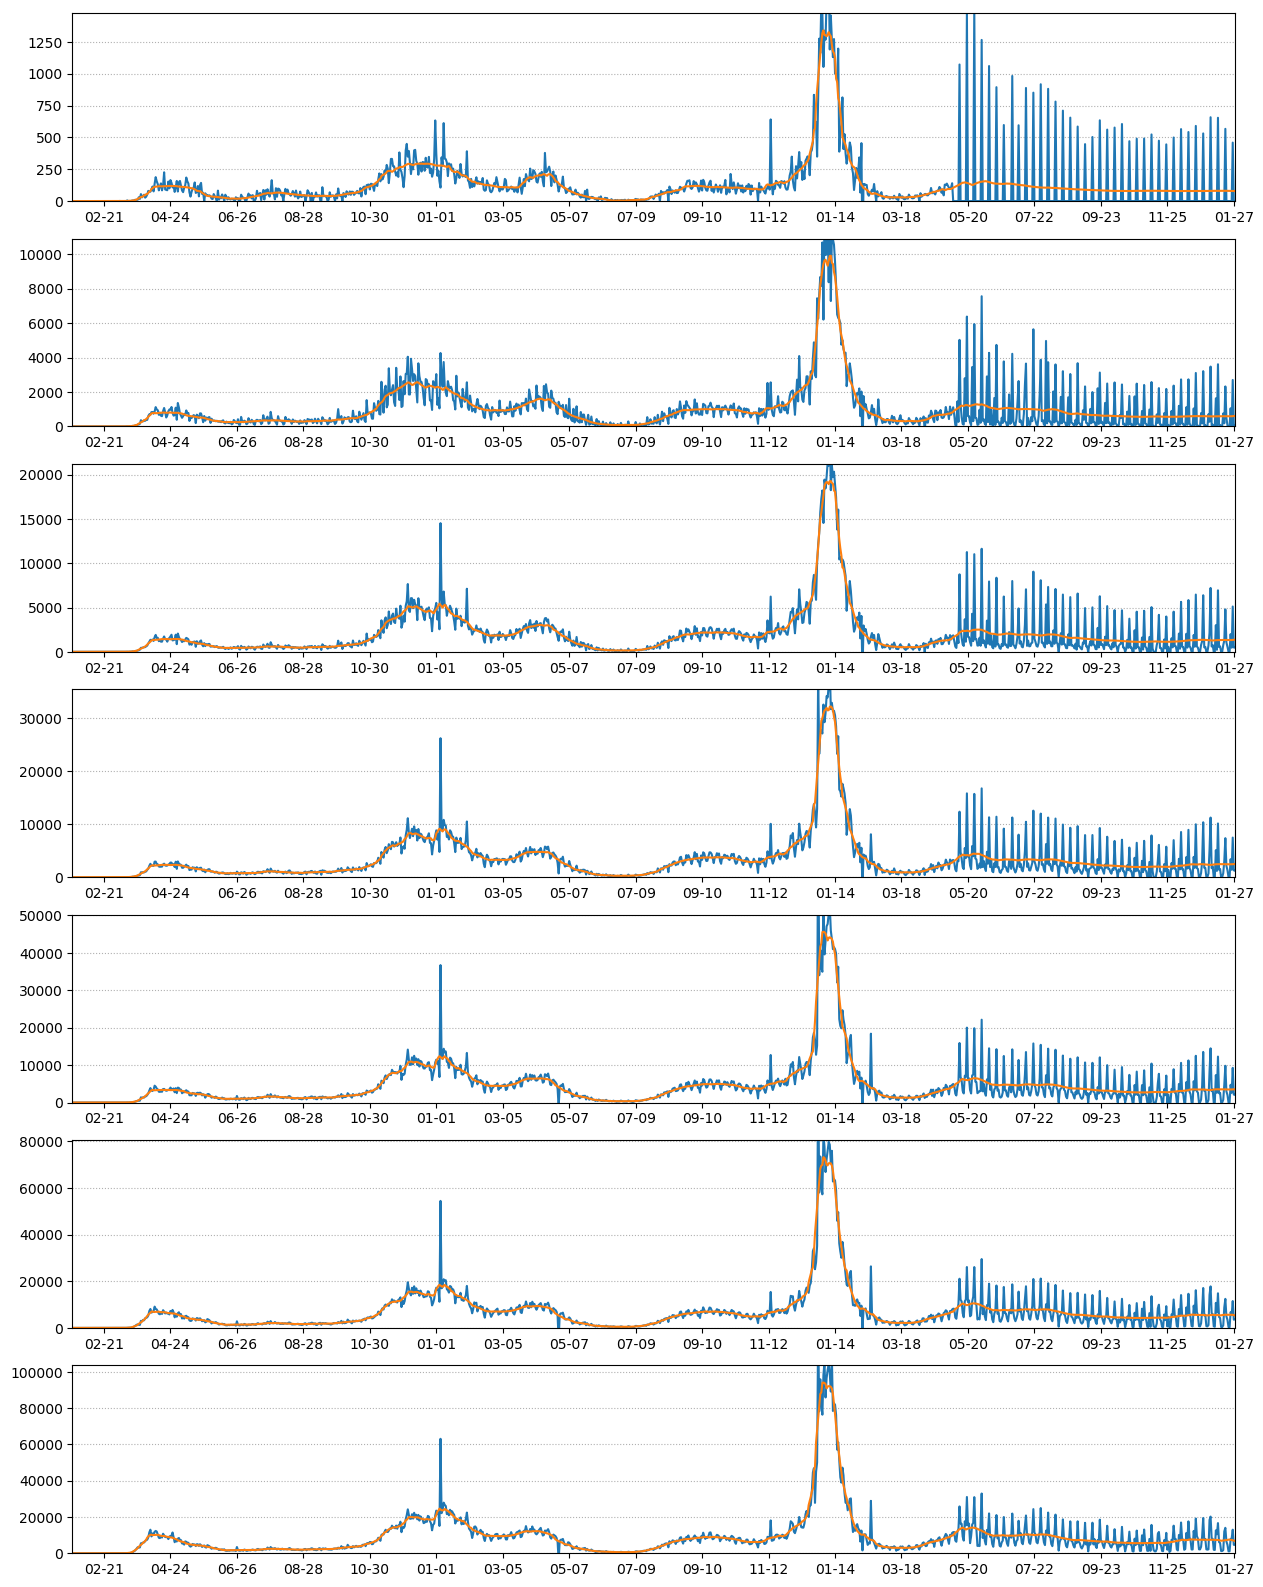
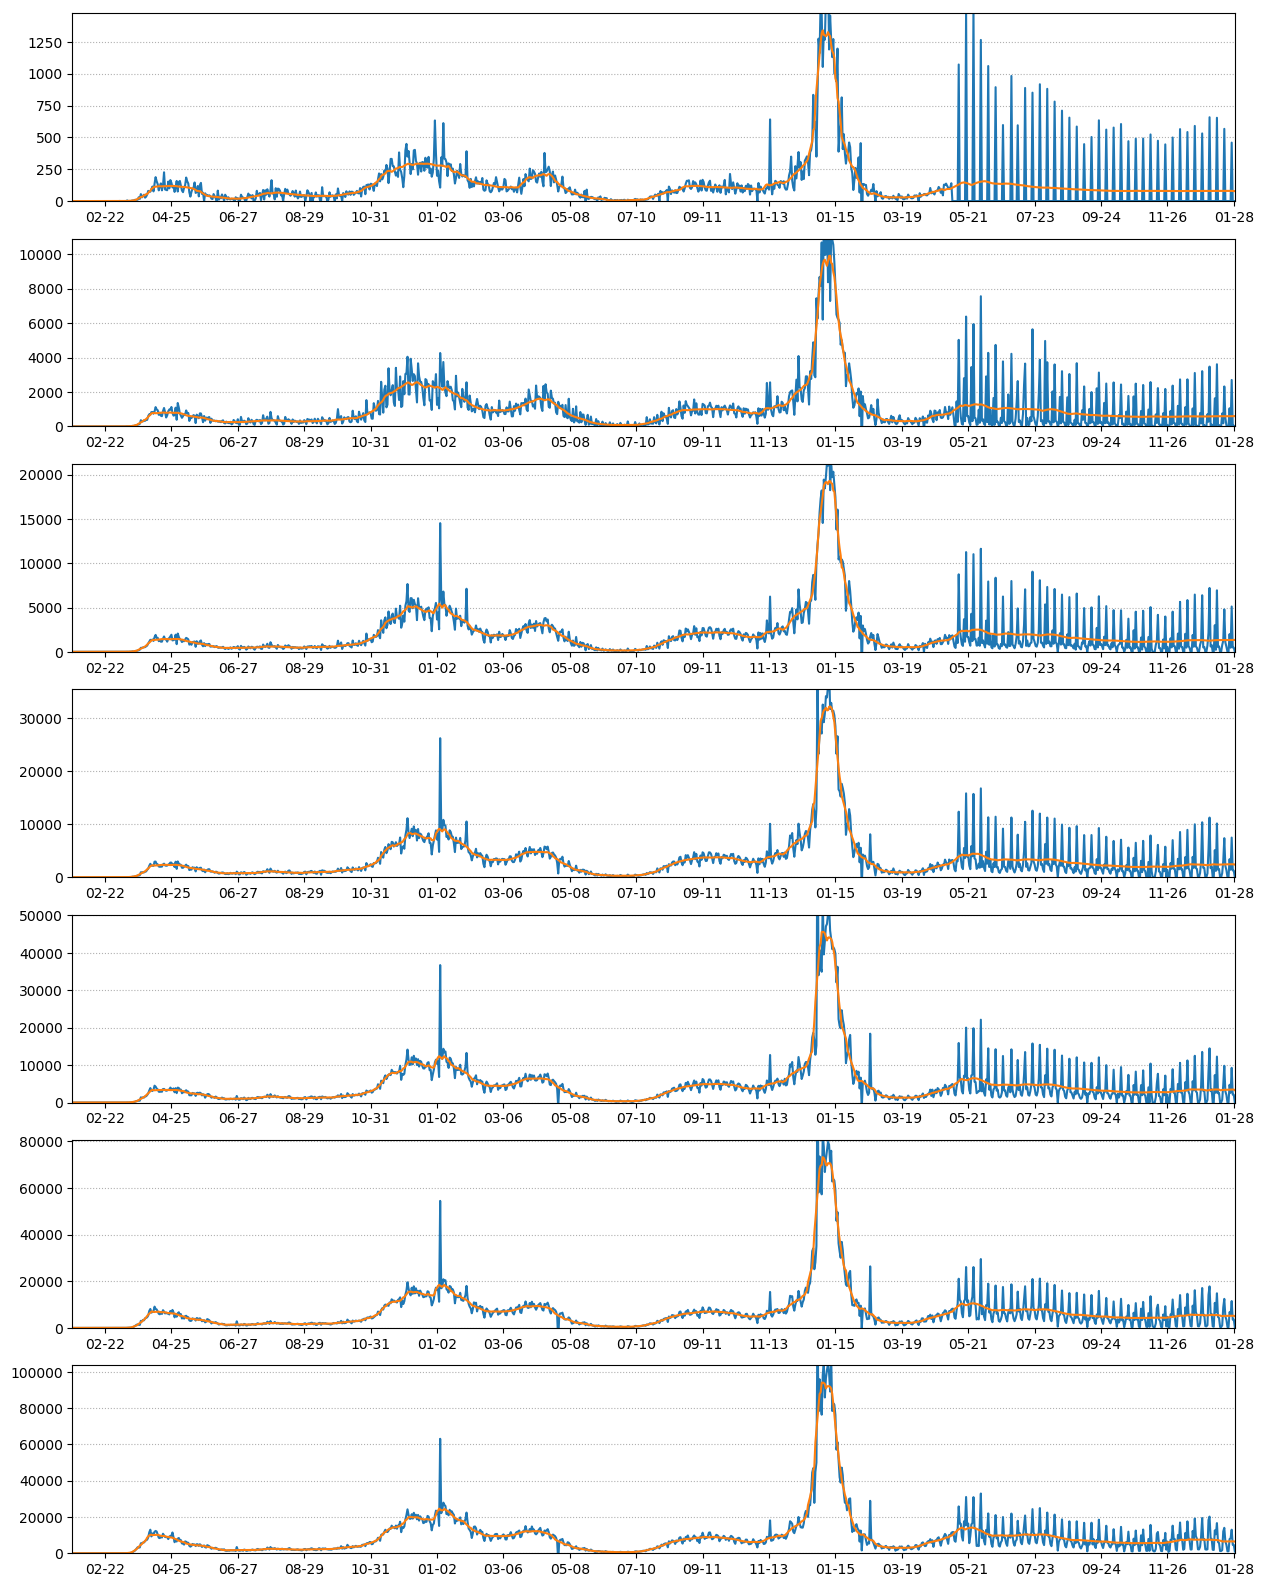
daily forecast

diff --git a/dailymessage.html b/dailymessage.html
@@ -1,46 +1,46 @@
 Delaware County COVID-19 Monitor<br>
-as of 2023-01-27<br>
+as of 2023-01-28<br>
 <table border="1" cellspacing="5" cellpadding="3">
 <tr>
 <td>0</td>
-<td>79</td>
+<td>78</td>
 <td>566747</td>
-<td>13.9</td>
+<td>13.7</td>
 </tr>
 <tr>
 <td>1</td>
-<td>610</td>
+<td>600</td>
 <td>4357104</td>
-<td>14.0</td>
+<td>13.7</td>
 </tr>
 <tr>
 <td>2</td>
-<td>1372</td>
+<td>1344</td>
 <td>8052045</td>
-<td>17.0</td>
+<td>16.6</td>
 </tr>
 <tr>
 <td>3</td>
-<td>2479</td>
+<td>2365</td>
 <td>13327166</td>
-<td>18.6</td>
+<td>17.7</td>
 </tr>
 <tr>
 <td>4</td>
-<td>3524</td>
+<td>3292</td>
 <td>18498878</td>
-<td>19.0</td>
+<td>17.7</td>
 </tr>
 <tr>
 <td>5</td>
-<td>5339</td>
+<td>5004</td>
 <td>27240755</td>
-<td>19.5</td>
+<td>18.3</td>
 </tr>
 <tr>
 <td>6</td>
-<td>6842</td>
+<td>6463</td>
 <td>34871340</td>
-<td>19.6</td>
+<td>18.5</td>
 </tr>
 </table>
